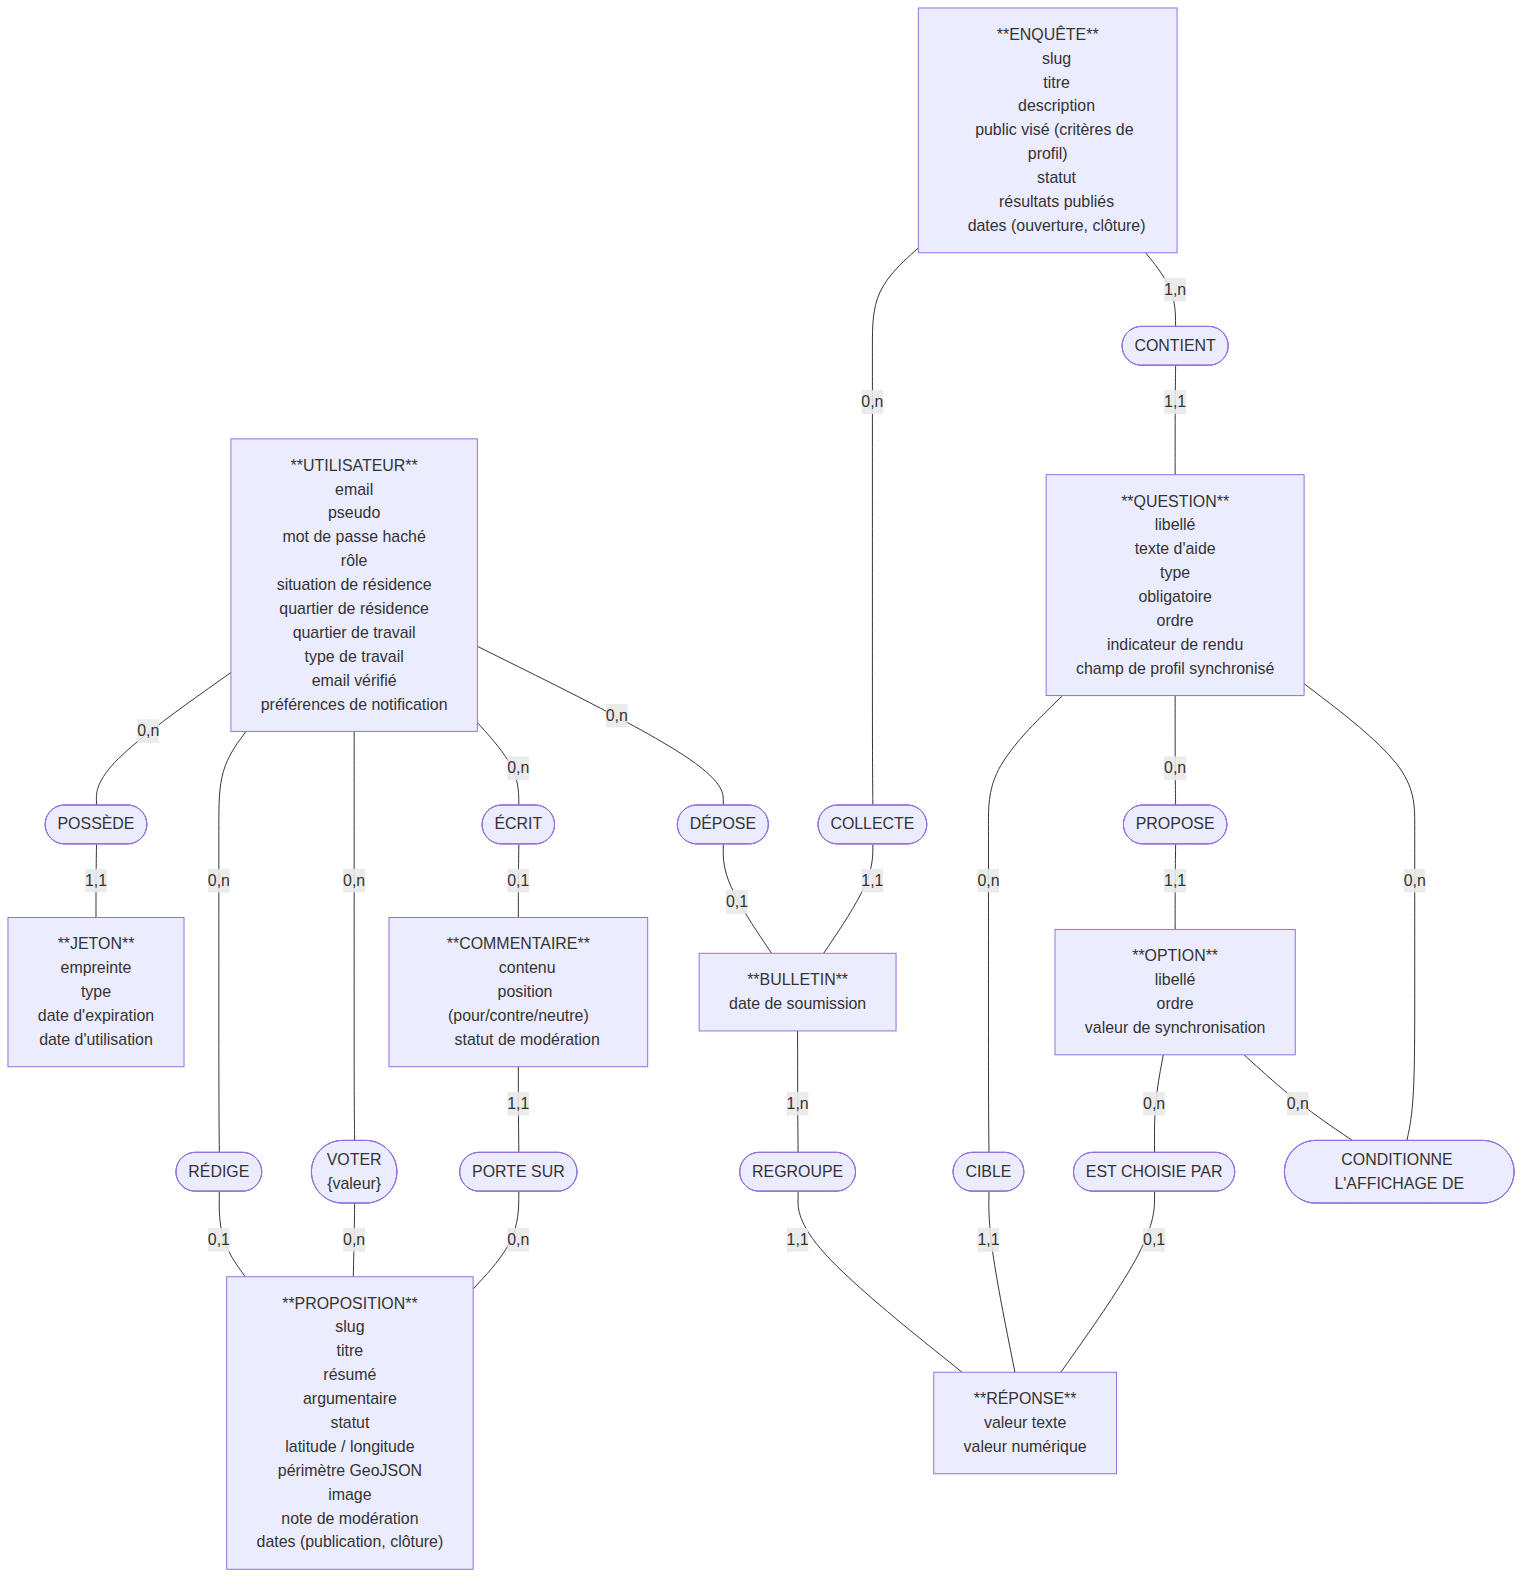
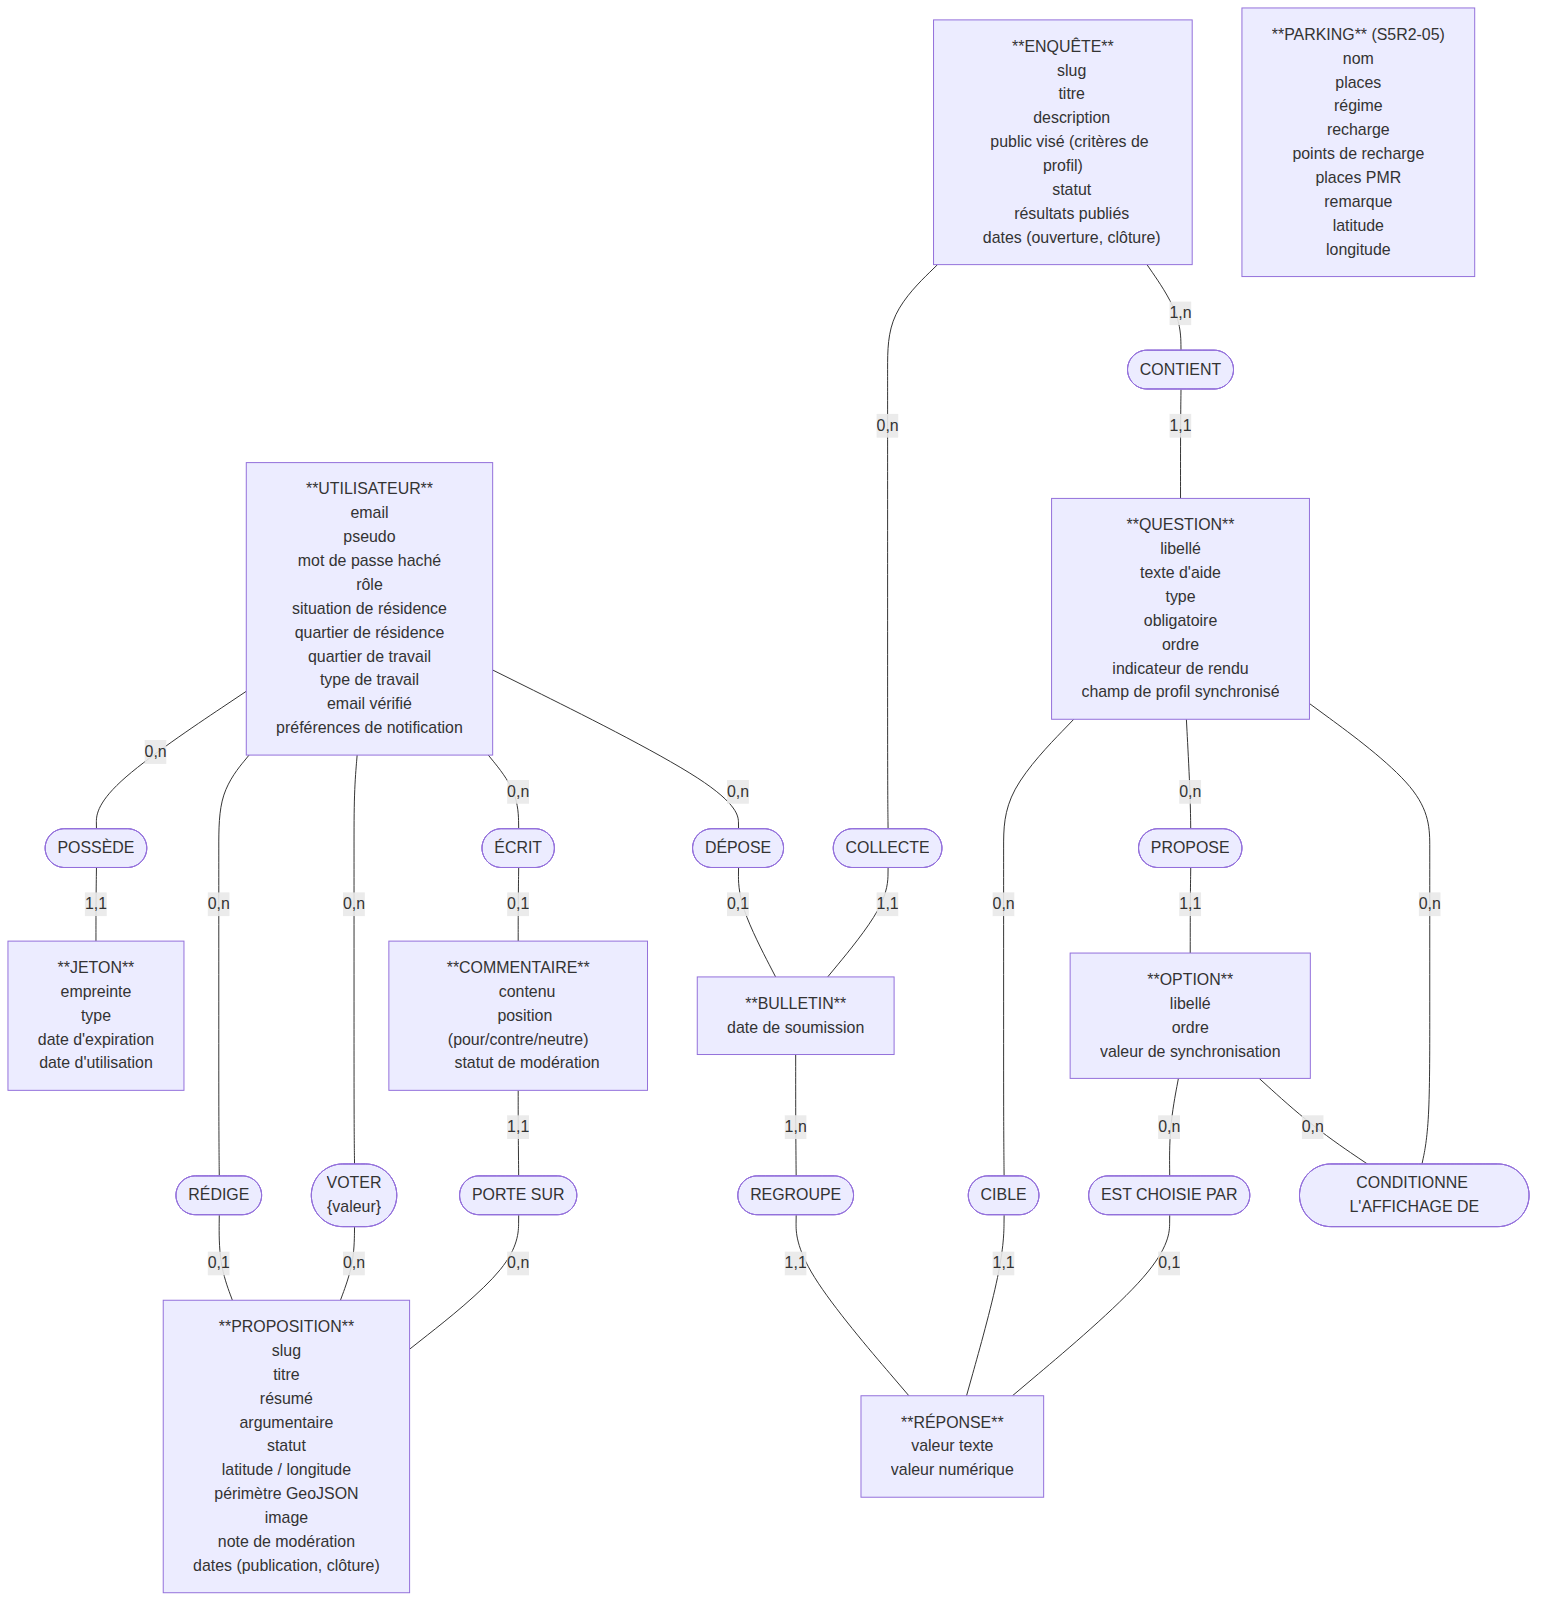
docs: S5R2-05 livrée — parkings gérés par l'administration

diff --git a/16-kanban-issues-complet.md b/16-kanban-issues-complet.md
@@ -54,6 +54,8 @@
 >
 > **Complément S5R2-04** (14/10/2026, recette) : « Secteurs » proposé sur TOUTES les questions à réponse unique (la limite de 3 à 5 options privait « Dans quel quartier ? » et la plupart des questions de l'enquête stationnement) ; 8 couleurs, ordre calculé pour chaque nombre de parts (voisines toujours distinctes, daltonismes compris) ; au-delà de 8 parts, regroupement « Autres réponses » ; message à la place d'un anneau vide.
 >
+> **S5R2-05 livrée** (14/10/2026) : table `Parking` (migration `managed_parkings`, régimes `GRATUIT`, `ZONE_ROUGE`, `ZONE_VERTE`, `GARE`, `DUREE_LIMITEE` et `PARC_PAYANT` — ajouté pour Brunehaut, tarif propre), API `/parkings` (lecture publique des parkings placés, liste complète pour l'équipe, écriture ADMIN, journal d'administration) ; écran `/admin/parkings` (liste, filtre « À placer », formulaire, **placement par clic sur la carte** ou saisie des coordonnées ; Admin-test en lecture seule) ; **19 parkings initiaux** lus sur les documents de la Ville (plan 2023 : noms, places ; guide 2025 : zones et bornes, qui l'emportent en cas d'écart — ex. square des États-Unis passé de zone rouge à zone verte), à placer sur la carte ; repères par régime (lettre + couleur, éclair pour la recharge), infobulles complètes, **légende et tarifs 2025** sous la carte (« tarifs indicatifs ») ; extraction OpenStreetMap retirée de `public/data` (script gardé) ; mentions légales mises à jour.
+>
 > **Légende** : ✅ livré (mergé sur `dev`) · 🔶 partiellement livré · sans marque = à faire.
 >
 > **Gabarit d'issue** (à enregistrer comme template GitHub) : *Contexte* (lien cahier des charges) · *Critères d'acceptation* (cases à cocher) · *Definition of Done rappelée*.
@@ -220,7 +222,7 @@
 | **S5R2-06** | **`feat(api+bdd+client): le centre en deux quartiers — « Centre historique » (ex-Centre-Sud du plan 2018) et « Quartier Saint-Vincent » (ex-Centre-Est – Saint-Vincent) ; contours tracés avec un outil admin d'après le plan municipal ; couleurs et autres quartiers inchangés`** ✅ | **`lot:1` `type:feature` `zone:api` `zone:bdd` `zone:client`** | **`feat/centre-saint-vincent`** | **2 j** | **J92–J94** |
 | **S5R2-03** | **`feat(data): enquête stationnement v3.1 — relecture complète pour la présentation à la mairie ; EDPM, activités en 6 familles + « Autre » → « Laquelle ? » facultative, « voitures ou motos », bus régional pour les résidents d'une autre ville (option conditionnelle), Saint-Vincent hors du périmètre ; seed --remplacer (dev)`** ✅ | **`lot:1` `type:feature` `zone:api`** | **`feat/parking-survey-v3-1`** | **1 j** | **J94–J95** |
 | **S5R2-04** | **`feat(client): résultats d'enquête avec Chart.js (barres, secteurs) — chargé seulement sur la page des résultats, nombres en texte conservés à côté (accessibilité)`** ✅ | **`lot:1` `type:feature` `zone:client`** | **`feat/results-chartjs`** | **1 j** | **J95–J96** |
-| **S5R2-05** | **`feat(api+bdd+client): parkings gérés par l'administration — table Parking (nom, places, régime : gratuit / zone rouge / zone verte / gare / durée limitée, recharge existante ou en projet, PMR), écran admin avec placement sur la carte ; données initiales croisant le plan 2023 (noms, places) et le guide Indigo 2025 (zones, tarifs) ; légende des tarifs 2025 ; couche OpenStreetMap retirée`** | **`lot:1` `type:feature` `zone:api` `zone:bdd` `zone:client`** | **`feat/managed-parkings`** | **3 j** | **J96–J99** |
+| **S5R2-05** | **`feat(api+bdd+client): parkings gérés par l'administration — table Parking (nom, places, régime : gratuit / zone rouge / zone verte / gare / durée limitée, recharge existante ou en projet, PMR), écran admin avec placement sur la carte ; données initiales croisant le plan 2023 (noms, places) et le guide Indigo 2025 (zones, tarifs) ; légende des tarifs 2025 ; couche OpenStreetMap retirée`** ✅ | **`lot:1` `type:feature` `zone:api` `zone:bdd` `zone:client`** | **`feat/managed-parkings`** | **3 j** | **J96–J99** |
 | **S5R-13** | **`docs: audit complété NIST (SP 800-63B, CSF 2.0) + procédure de mise à jour des quartiers et des parkings`** *(reportée de S5R)* | **`lot:1` `type:docs`** | **`docs/nist-iris-procedure`** | **0,5 j** | **J99** |
 | **S5R2-07** | **`feat(api+client): lecture au survol avec les voix neuronales Azure AI Speech (offre gratuite F0) via un relais de l'API (clé jamais exposée, cache, limite) — seulement les éléments porteurs de texte, jamais les pages de compte ni les champs saisis ; Pause / Reprendre / Arrêter ; repli sur les voix du navigateur si le quota est atteint ; sous-traitant déclaré (registre, politique de confidentialité)`** | **`lot:1` `type:feature` `zone:api` `zone:client` `a11y` `rgpd`** | **`feat/hover-reading-azure`** | **2 j** | **J100–J101** |
 | **S5R2-09** | **`feat(api): second email avant la suppression d'un compte inactif (ex-L3-07)`** | **`lot:1` `type:feature` `zone:api` `rgpd`** | **`feat/inactivity-second-email`** | **0,5 j** | **J102** |

diff --git a/03-dictionnaire-de-donnees.md b/03-dictionnaire-de-donnees.md
@@ -174,12 +174,29 @@
 | Attribut | Type | Contraintes | Description |
 |---|---|---|---|
 | id | UUID | PK | Identifiant |
-| action | String | NOT NULL | Code de l'action : `ADMIN_LOGIN`, `USER_ROLE_CHANGED`, `PROPOSAL_CREATED/UPDATED/IMAGE_UPLOADED/DELETED`, `SURVEY_CREATED/UPDATED/DELETED` |
+| action | String | NOT NULL | Code de l'action : `ADMIN_LOGIN`, `USER_ROLE_CHANGED`, `PROPOSAL_CREATED/UPDATED/IMAGE_UPLOADED/DELETED`, `SURVEY_CREATED/UPDATED/DELETED`, `PARKING_CREATED/UPDATED/DELETED` |
 | actorId | UUID | FK → USER, NULL, SET NULL | L'admin qui a agi ; NULL si son compte a été supprimé depuis |
 | actorPseudo | String | NOT NULL | Pseudo recopié au moment de l'action (reste lisible après suppression du compte) |
 | targetType / targetId | String | NULL | Objet visé (ex. `Proposal` + son id) |
 | details | Json | NULL | Quelques informations utiles (titre, champs modifiés, rôle avant/après) — jamais de secret ni de contenu citoyen |
 | createdAt | DateTime | défaut now(), INDEX | Date de l'action ; purge après 6 mois |
+
+## PARKING — parking de la carte, tenu par l'administration (S5R2-05)
+
+| Attribut | Type | Contraintes | Description |
+|---|---|---|---|
+| id | UUID | PK | Identifiant |
+| name | String | NOT NULL, UNIQUE | Nom (ex. « Parking Saint-Rieul ») — unique : pas de doublon |
+| places | Int | NULL, ≥ 0 | Nombre de places (plan 2023) |
+| regime | ParkingRegime | NULL | Régime (guide 2025) ; NULL = « à préciser » |
+| charging | ParkingCharging | NOT NULL, défaut AUCUNE | Recharge électrique : aucune, installée, en projet |
+| chargingPoints | Int | NULL | Nombre de points de recharge, si connu (effacé si AUCUNE) |
+| pmrPlaces | Int | NULL | Places réservées aux personnes à mobilité réduite |
+| note | String | NULL, ≤ 300 | Remarque (ex. règles du disque, tarif propre) |
+| lat / lng | Float | NULL, les deux ou aucun, dans un cadre autour de Senlis | Position sur la carte ; NULL = pas encore placé (absent de la carte publique) |
+| createdAt / updatedAt | DateTime | | Dates de création et de modification |
+
+> Aucune donnée personnelle. Données initiales : `api/prisma/data/parkings-initiaux.js` (19 parkings, plan 2023 + guide 2025), insérées par le seed si la table est vide.
 
 ## Énumérations
 
@@ -196,6 +213,8 @@
 | Situation | CENTRE_RESIDENT, AUTRE_QUARTIER, HORS_SENLIS | Résidence déclarée (`CENTRE_COMMERCANT` retiré le 22/09/2026 : redondant avec l'axe travail) |
 | Quartier | CENTRE_HISTORIQUE, SAINT_VINCENT, BRICHEBAY, BON_SECOURS, VAL_AUNETTE_GATELIERE, ZONE_INDUSTRIELLE, VILLEVERT, JARDINIERS | 8 quartiers : les 7 IRIS INSEE, le « Centre Ville » coupé en deux d'après le plan municipal de 2018 (S5R2-06) — `CENTRE_HISTORIQUE` = le seul Centre historique (ex-« Centre-Sud »), `SAINT_VINCENT` = Quartier Saint-Vincent (ex-« Centre-Est – Saint-Vincent »), un « autre quartier » pour la résidence. `CENTRE_HISTORIQUE` n'est pas un quartier de résidence (couvert par `Situation.CENTRE_RESIDENT`). Liste commune : `api/src/lib/quartiers.js` |
 | TravailType | COMMERCANT, SALARIE | Rôle dans l'activité exercée à Senlis |
+| ParkingRegime | GRATUIT, ZONE_ROUGE, ZONE_VERTE, GARE, DUREE_LIMITEE, PARC_PAYANT | Régime d'un parking (S5R2-05) — `PARC_PAYANT` : tarif propre (ex. Brunehaut, ÉcoQuartier) |
+| ParkingCharging | AUCUNE, EXISTANTE, EN_PROJET | Bornes de recharge d'un parking (S5R2-05) |
 
 ## Données personnelles — classement RGPD (rappel)
 

diff --git a/08-merise-mcd-mld-mpd.md b/08-merise-mcd-mld-mpd.md
@@ -75,6 +75,17 @@ flowchart TB
     valeur texte
     valeur numérique"]
 
+    PARKING["**PARKING** (S5R2-05)
+    nom
+    places
+    régime
+    recharge
+    points de recharge
+    places PMR
+    remarque
+    latitude
+    longitude"]
+
     aPOSSEDE(["POSSÈDE"])
     aREDIGE(["RÉDIGE"])
     aVOTER(["VOTER
@@ -169,6 +180,9 @@ QuestionOption (id, label, "order", syncValue, endsSurvey, #questionId)
 AdminAuditLog (id, action, actorPseudo, targetType, targetId, details, createdAt, #actorId)
      PK : id · FK : actorId → User(id) [NULLABLE] · INDEX : createdAt
 
+Parking (id, name, places, regime, charging, chargingPoints, pmrPlaces, note, lat, lng, createdAt, updatedAt)   ← S5R2-05
+     PK : id · UNIQUE : name — entité isolée (aucune association) : la carte la lit, l'administration la tient
+
 SurveyResponse (id, submittedAt, #surveyId, #userId)
      PK : id · FK : surveyId → Survey(id)
      FK : userId → User(id) [NULLABLE] · UNIQUE : (userId, surveyId)
@@ -211,6 +225,9 @@ CREATE TYPE "Quartier"       AS ENUM ('BRICHEBAY','BON_SECOURS','VAL_AUNETTE_GAT
                                       'ZONE_INDUSTRIELLE','VILLEVERT','JARDINIERS',
                                       'CENTRE_HISTORIQUE','SAINT_VINCENT');  -- SAINT_VINCENT : S5R2-06
 CREATE TYPE "TravailType"    AS ENUM ('COMMERCANT', 'SALARIE');
+CREATE TYPE "ParkingRegime"   AS ENUM ('GRATUIT','ZONE_ROUGE','ZONE_VERTE','GARE',
+                                      'DUREE_LIMITEE','PARC_PAYANT');        -- S5R2-05
+CREATE TYPE "ParkingCharging" AS ENUM ('AUCUNE','EXISTANTE','EN_PROJET');     -- S5R2-05
 
 CREATE TABLE "User" (
   "id"                 TEXT NOT NULL PRIMARY KEY,
@@ -359,6 +376,22 @@ CREATE TABLE "AdminAuditLog" (
   "createdAt"   TIMESTAMP(3) NOT NULL DEFAULT CURRENT_TIMESTAMP
 );
 CREATE INDEX "AdminAuditLog_createdAt_idx" ON "AdminAuditLog"("createdAt");
+
+-- S5R2-05 : parkings gérés par l'administration (remplace OpenStreetMap)
+CREATE TABLE "Parking" (
+  "id"             TEXT NOT NULL PRIMARY KEY,
+  "name"           TEXT NOT NULL UNIQUE,
+  "places"         INTEGER,
+  "regime"         "ParkingRegime",                -- NULL = à préciser
+  "charging"       "ParkingCharging" NOT NULL DEFAULT 'AUCUNE',
+  "chargingPoints" INTEGER,
+  "pmrPlaces"      INTEGER,
+  "note"           TEXT,
+  "lat"            DOUBLE PRECISION,               -- NULL = pas encore placé
+  "lng"            DOUBLE PRECISION,
+  "createdAt"      TIMESTAMP(3) NOT NULL DEFAULT CURRENT_TIMESTAMP,
+  "updatedAt"      TIMESTAMP(3) NOT NULL
+);
 
 CREATE TABLE "SurveyResponse" (
   "id"          TEXT NOT NULL PRIMARY KEY,

diff --git a/01-cahier-des-charges-v1.4.md b/01-cahier-des-charges-v1.4.md
@@ -224,6 +224,7 @@ Note : les animations CSS de la mascotte utilisent exclusivement des propriété
 /admin/enquetes                      Liste + /nouvelle + /:slug/modifier (constructeur, branchement)
 /admin/enquetes/:id/stats            Résultats détaillés, segmentation, impression / PDF
 /admin/comptes                       Promouvoir / rétrograder un admin
+/admin/parkings                      Parkings de la carte : ajouter, modifier, placer d'un clic (S5R2-05)
 /admin/moderation                    File de modération (Lot 2)
 /mentions-legales · /confidentialite Pages légales
 /accessibilite · /plan-du-site       Déclaration d'accessibilité (modèle RGAA), plan du site
@@ -297,6 +298,11 @@ Note : les animations CSS de la mascotte utilisent exclusivement des propriété
 | GET | /admin/users | 👑 | Liste paginée des comptes, recherche email / pseudo |
 | PATCH | /admin/users/:id | 👑 | Changer le rôle : `CITIZEN`, `EDITOR` (Admin-test) ou `ADMIN` (impossible de se rétrograder soi-même) |
 | GET | /stats/participants | 🔓 | Nombre de citoyens ayant voté ou répondu (aucune donnée personnelle) |
+| GET | /parkings | 🔓 | Parkings **placés** sur la carte (S5R2-05) |
+| GET | /parkings/admin | 🛠 | Tous les parkings, placés ou non (Admin-test : consultation) |
+| POST | /parkings | 👑 | Ajouter un parking (nom seul possible) |
+| PATCH | /parkings/:id | 👑 | Modifier, placer (`lat`/`lng`) ou retirer de la carte (`null`) |
+| DELETE | /parkings/:id | 👑 | Supprimer |
 | GET | /health | 🔓 | Health check (API + base) |
 
 > ✉ = email vérifié exigé (middleware `requireVerifiedEmail`, relu en base à chaque requête). Les images uploadées sont servies hors préfixe, sur `/uploads/proposals/<uuid>.webp`.

diff --git a/14-sitemap.md b/14-sitemap.md
@@ -28,11 +28,12 @@ flowchart TD
     ADME --> ADMS["👑 /admin/enquetes/:id/stats<br/>résultats détaillés, segmentation,<br/>impression / PDF"]
     HOME --> ADMC["👑 /admin/comptes<br/>promouvoir / rétrograder"]
     ADMP --> ADMQ["👑 /admin/quartiers<br/>tracé de Saint-Vincent (S5R2-06)"]
+    ADMP --> ADMK["🛠 /admin/parkings<br/>parkings de la carte, placement d'un clic (S5R2-05)"]
     HOME -.-> ADMM["👑 /admin/moderation<br/>(Lot 2)"]:::lot2
 
     HOME --> LEGAL["🔓 /mentions-legales<br/>/confidentialite"]
     HOME --> A11Y["🔓 /accessibilite · /plan-du-site<br/>déclaration RGAA, plan du site"]
-    HOME --> CARTE["🔓 /carte<br/>carte « Explorer » : propositions, enquêtes, parkings par quartier (S5R-11)"]
+    HOME --> CARTE["🔓 /carte<br/>carte « Explorer » : propositions, enquêtes, parkings par quartier (S5R-11) ;<br/>parkings de l'administration + légende des tarifs 2025 (S5R2-05)"]
     HOME --> NF["🔓 /* — page 404"]
 
     classDef lot2 stroke-dasharray:5 5

diff --git a/02-diagramme-erd.md b/02-diagramme-erd.md
@@ -56,6 +56,20 @@ erDiagram
         datetime usedAt "nullable"
         int attempts
     }
+    PARKING {
+        uuid id PK
+        string name UK
+        int places "nullable"
+        enum regime "nullable, S5R2-05"
+        enum charging
+        int chargingPoints "nullable"
+        int pmrPlaces "nullable"
+        string note "nullable"
+        float lat "nullable"
+        float lng "nullable"
+        datetime createdAt
+        datetime updatedAt
+    }
     ADMIN_AUDIT_LOG {
         uuid id PK
         string action
